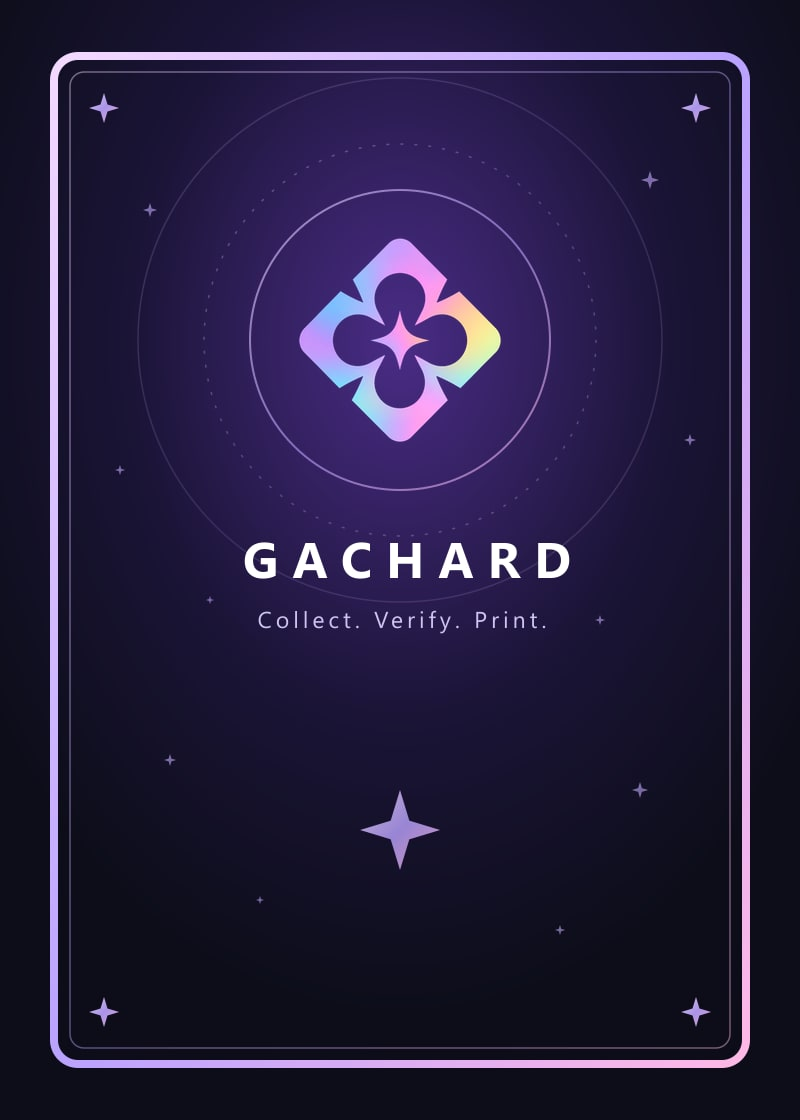
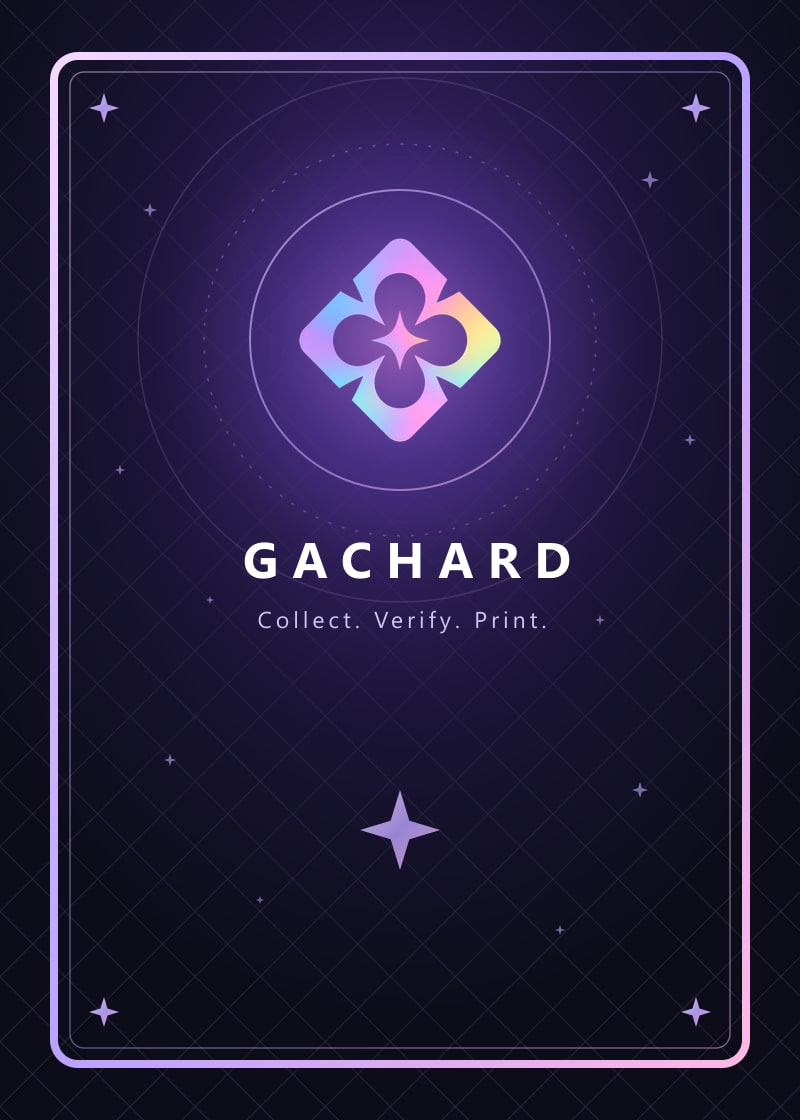
Redesign the card back, and keep test series off the public lists
The back of a printed card now has a small plate in the card's colors, with
the demo notice, a short print number and the serial. The back itself gets a
lattice and a glow. Series the app check publishes no longer appear on the
home page or the Series tab while it runs.

Changed region(s): [[0.3125, 0.1875, 0.6875, 0.4375]]

diff --git a/frontend/lib/pdf.ts b/frontend/lib/pdf.ts
@@ -7,7 +7,7 @@
  * stays clean. The notice that cannot be cropped off is the Scan status.
  */
 import { PDFDocument, StandardFonts, rgb } from "pdf-lib";
-import { brandedQr, printUrl } from "./qr-style.ts";
+import { brandedQr, printCode, printUrl, rounded } from "./qr-style.ts";
 import { readArt } from "./art.ts";
 
 export const SIMULATION_NOTICE = "SIMULATION: NEAR Hackathon demo. Not an official printed card.";
@@ -31,6 +31,7 @@ export async function printPdf(card: {
   doc.setTitle(`${card.cardName} - hackathon demo print`);
   const font = await doc.embedFont(StandardFonts.Helvetica);
   const bold = await doc.embedFont(StandardFonts.HelveticaBold);
+  const mono = await doc.embedFont(StandardFonts.Courier);
   const ink = rgb(0.1, 0.1, 0.14);
 
   const art = await readArt(card.media);
@@ -76,7 +77,7 @@ export async function printPdf(card: {
 
   // Front: bleed-sized art, clean apart from the QR zone.
   {
-    const { page, x, y } = drawPage(`Front: ${card.seriesName} / ${card.cardName}, token ${card.tokenId}, print cycle ${card.printCycle}`);
+    const { page, x, y } = drawPage(`Front: ${card.seriesName} / ${card.cardName}, ${printCode(card.tokenId, card.printCycle)}`);
     page.drawImage(front, {
       x: x - mm(BLEED), y: y - mm(BLEED),
       width: mm(TRIM.width + BLEED * 2), height: mm(TRIM.height + BLEED * 2),
@@ -99,12 +100,21 @@ export async function printPdf(card: {
       x: x - mm(BLEED), y: y - mm(BLEED),
       width: mm(TRIM.width + BLEED * 2), height: mm(TRIM.height + BLEED * 2),
     });
-    const panelY = y + mm(10);
-    page.drawRectangle({ x: x + mm(5), y: panelY, width: mm(TRIM.width - 10), height: mm(24), color: rgb(1, 1, 1) });
-    page.drawText("Hackathon demo print", { x: x + mm(8), y: panelY + mm(18), size: 8, font: bold, color: rgb(0.75, 0.1, 0.2) });
-    page.drawText(`Token ${card.tokenId}, print ${card.printCycle}`, { x: x + mm(8), y: panelY + mm(12.5), size: 9.5, font: bold, color: ink });
-    page.drawText("Serial", { x: x + mm(8), y: panelY + mm(7.5), size: 7, font, color: ink });
-    page.drawText(card.serial, { x: x + mm(8), y: panelY + mm(3.5), size: 6, font, color: ink });
+    // A plate in the card's own colors, which names this print. The front names the card.
+    const plate = { x: x + mm(11), y: y + mm(13.5), width: mm(TRIM.width - 22), height: mm(11.5) };
+    const left = plate.x + mm(3);
+    page.drawSvgPath(rounded(0, 0, plate.width, plate.height, mm(1.6)), {
+      x: plate.x,
+      y: plate.y + plate.height,
+      color: rgb(0.039, 0.043, 0.078),
+      opacity: 0.94,
+      borderColor: rgb(0.79, 0.7, 0.98),
+      borderWidth: 0.6,
+      borderOpacity: 0.7,
+    });
+    page.drawText("HACKATHON DEMO PRINT", { x: left, y: plate.y + mm(8.5), size: 4.4, font: bold, color: rgb(0.97, 0.79, 0.42) });
+    page.drawText(printCode(card.tokenId, card.printCycle), { x: left, y: plate.y + mm(4.8), size: 8, font: bold, color: rgb(0.96, 0.95, 1) });
+    page.drawText(card.serial, { x: left, y: plate.y + mm(2), size: 5, font: mono, color: rgb(0.79, 0.7, 0.98) });
     cropMarks(page, x, y);
   }
 

diff --git a/frontend/app/scan/[id]/page.tsx b/frontend/app/scan/[id]/page.tsx
@@ -10,7 +10,7 @@ import { CRYSTAL_BY_RARITY } from "@/lib/economy";
 import { RARITIES } from "@/lib/catalog";
 import { collectorLabel, contractId, explorer } from "@/lib/near";
 import { qrDataUrl, siteOrigin } from "@/lib/qr";
-import { printUrl } from "@/lib/qr-style";
+import { printCode, printUrl } from "@/lib/qr-style";
 import { currentUser, nameOf } from "@/lib/users";
 
 export const dynamic = "force-dynamic";
@@ -138,7 +138,10 @@ export default async function CardRecord({ params, searchParams }: {
                 {collectorLabel(card.creator)} <ExternalIcon width={12} height={12} />
               </a>
             </Fact>
-            <Fact label="Times printed"><span className="tabular">{card.print_cycle}</span></Fact>
+            <Fact label="Times printed">
+              <span className="tabular">{card.print_cycle}</span>
+              {card.print_cycle > 0 ? <span className="mt-0.5 block text-xs font-medium text-cn-text-2 tabular">Latest: {printCode(id, card.print_cycle)}</span> : null}
+            </Fact>
             <Fact label="Artwork file" testid="art-check"><ArtCheck value={card.artMatches} /></Fact>
           </dl>
           <p className="text-xs text-cn-text-3 leading-relaxed">

diff --git a/frontend/lib/qr-style.ts b/frontend/lib/qr-style.ts
@@ -18,7 +18,7 @@ export interface QrLayer {
 
 const n = (value: number) => Number(value.toFixed(3));
 
-function rounded(x: number, y: number, w: number, h: number, r: number) {
+export function rounded(x: number, y: number, w: number, h: number, r: number) {
   return `M${n(x + r)} ${n(y)}h${n(w - 2 * r)}a${r} ${r} 0 0 1 ${r} ${r}v${n(h - 2 * r)}a${r} ${r} 0 0 1 ${-r} ${r}h${n(2 * r - w)}a${r} ${r} 0 0 1 ${-r} ${-r}v${n(2 * r - h)}a${r} ${r} 0 0 1 ${r} ${-r}z`;
 }
 
@@ -41,6 +41,9 @@ export function printUrl(origin: string, tokenId: string, serial: string) {
   const [scheme, host] = origin.split("://");
   return `${scheme}://${host.toUpperCase()}/S/${tokenId}/${serial.toUpperCase()}`;
 }
+
+/** How a print is named on paper: the card's number, then which print of it this is. */
+export const printCode = (tokenId: string, cycle: number) => `GCH-${tokenId}-P${cycle}`;
 
 // The scheme stays lowercase, because some scanners only recognise it that way.
 function segmentsOf(text: string) {

diff --git a/frontend/app/series/page.tsx b/frontend/app/series/page.tsx
@@ -2,7 +2,7 @@ import Link from "next/link";
 import { ArrowIcon } from "@/components/icons";
 import { CardImage, Page, primaryBtn, SeriesName, Title } from "@/components/ui";
 import { DEFAULT_CATEGORY } from "@/lib/categories";
-import { missingRarities, RARITIES } from "@/lib/catalog";
+import { isListed, RARITIES } from "@/lib/catalog";
 import { readDb, type SeriesRow } from "@/lib/db";
 import { nameOf } from "@/lib/users";
 
@@ -15,7 +15,7 @@ const previewOf = (series: SeriesRow) => [...series.templates].sort((a, b) => b.
 
 export default async function AllSeries() {
   const { series, users } = await readDb();
-  const live = series.filter((s) => !s.hidden && missingRarities(s).length === 0).reverse();
+  const live = series.filter(isListed).reverse();
 
   return (
     <Page wide>

diff --git a/frontend/app/page.tsx b/frontend/app/page.tsx
@@ -15,7 +15,7 @@ import {
 } from "@/components/icons";
 import { CardImage, Eyebrow, inputClass, primaryBtn } from "@/components/ui";
 import { CATEGORIES, DEFAULT_CATEGORY } from "@/lib/categories";
-import { missingRarities, RARITIES } from "@/lib/catalog";
+import { isListed, RARITIES } from "@/lib/catalog";
 import { readDb } from "@/lib/db";
 import { qrDataUrl, siteOrigin } from "@/lib/qr";
 import { nameOf } from "@/lib/users";
@@ -84,7 +84,7 @@ export default async function Home({ searchParams }: {
   const sampleQr = await qrDataUrl(`${origin}/scan`);
 
   const items: SeriesItem[] = series
-    .filter((s) => !s.hidden && missingRarities(s).length === 0)
+    .filter(isListed)
     .map((s) => ({
       id: s.id,
       name: s.name,

diff --git a/frontend/lib/catalog.ts b/frontend/lib/catalog.ts
@@ -92,6 +92,13 @@ export async function addCard(
   return template;
 }
 
+/**
+ * Whether a series appears in the public lists. The series near-e2e/app-flow.mjs publishes
+ * to test the app can be opened by its address, but nobody should come across them.
+ */
+export const isListed = (series: SeriesRow) =>
+  !series.hidden && missingRarities(series).length === 0 && !/^Flow \d+$/.test(series.name);
+
 /** A pack can only honour the published rates if every rarity with a rate has a card. */
 export function missingRarities(series: SeriesRow): string[] {
   return RARITIES.filter(

diff --git a/frontend/components/PrintSheet.tsx b/frontend/components/PrintSheet.tsx
@@ -24,7 +24,7 @@ export default function PrintSheet({ src, qr, side = "front", label, marks = tru
         ) : null}
         {side === "back" ? (
           <div className="print-card-plate">
-            <strong>Token 15 · Print 1</strong>
+            <strong>GCH-245-P1</strong>
           </div>
         ) : null}
         <span className="print-card-gloss" aria-hidden="true" />
